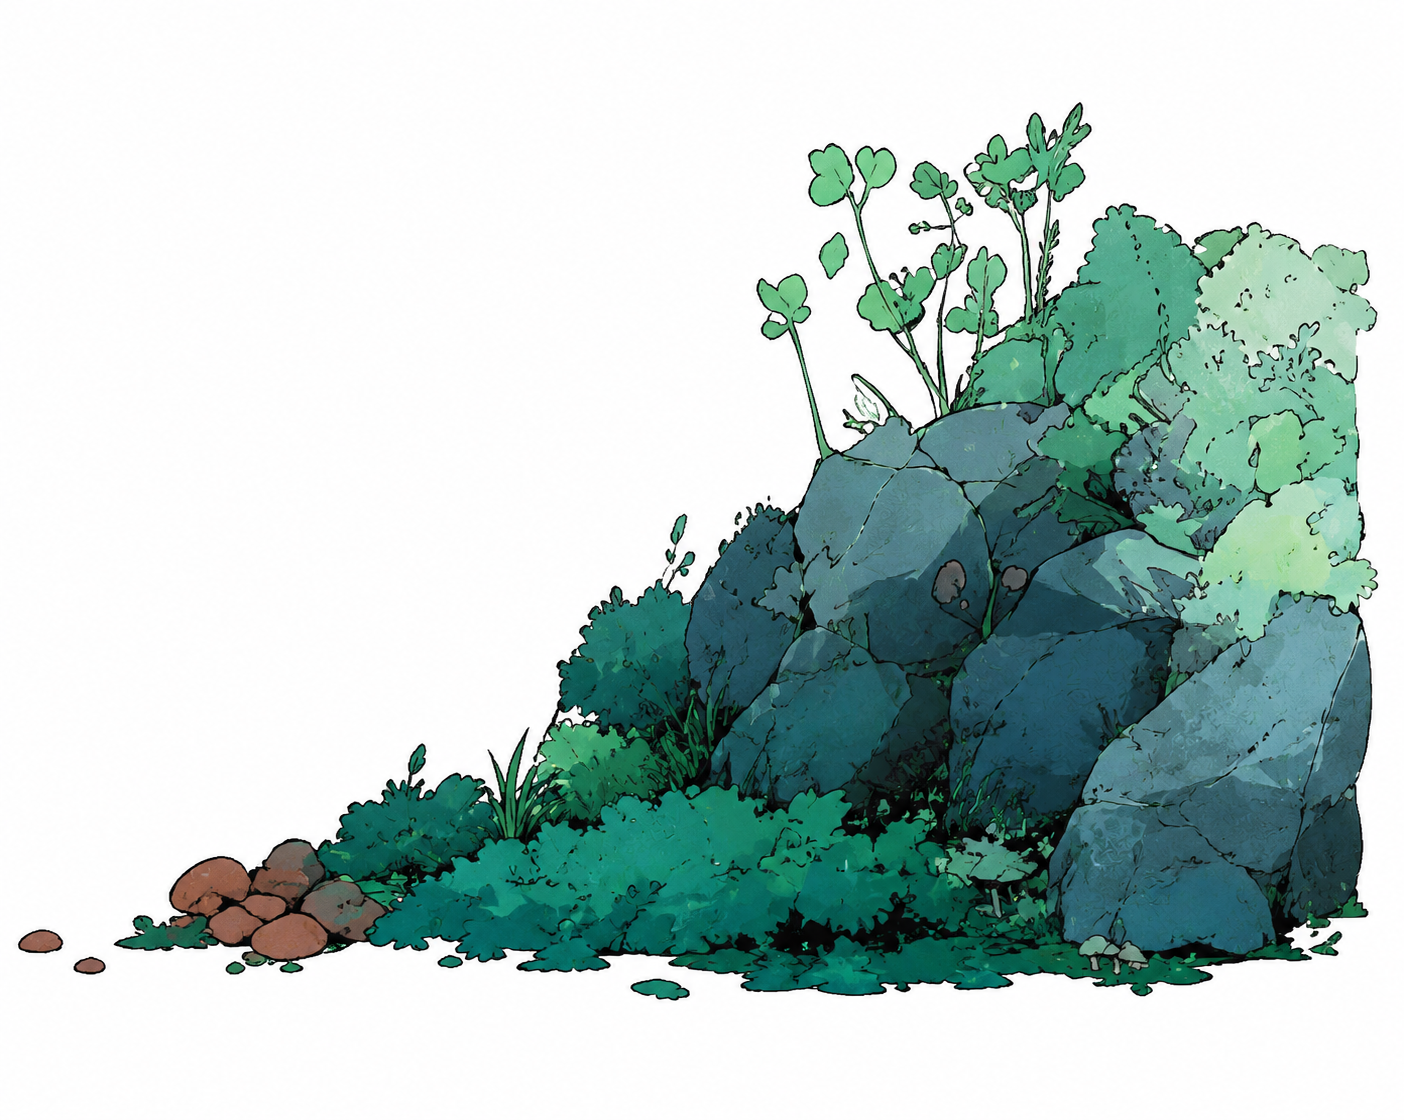
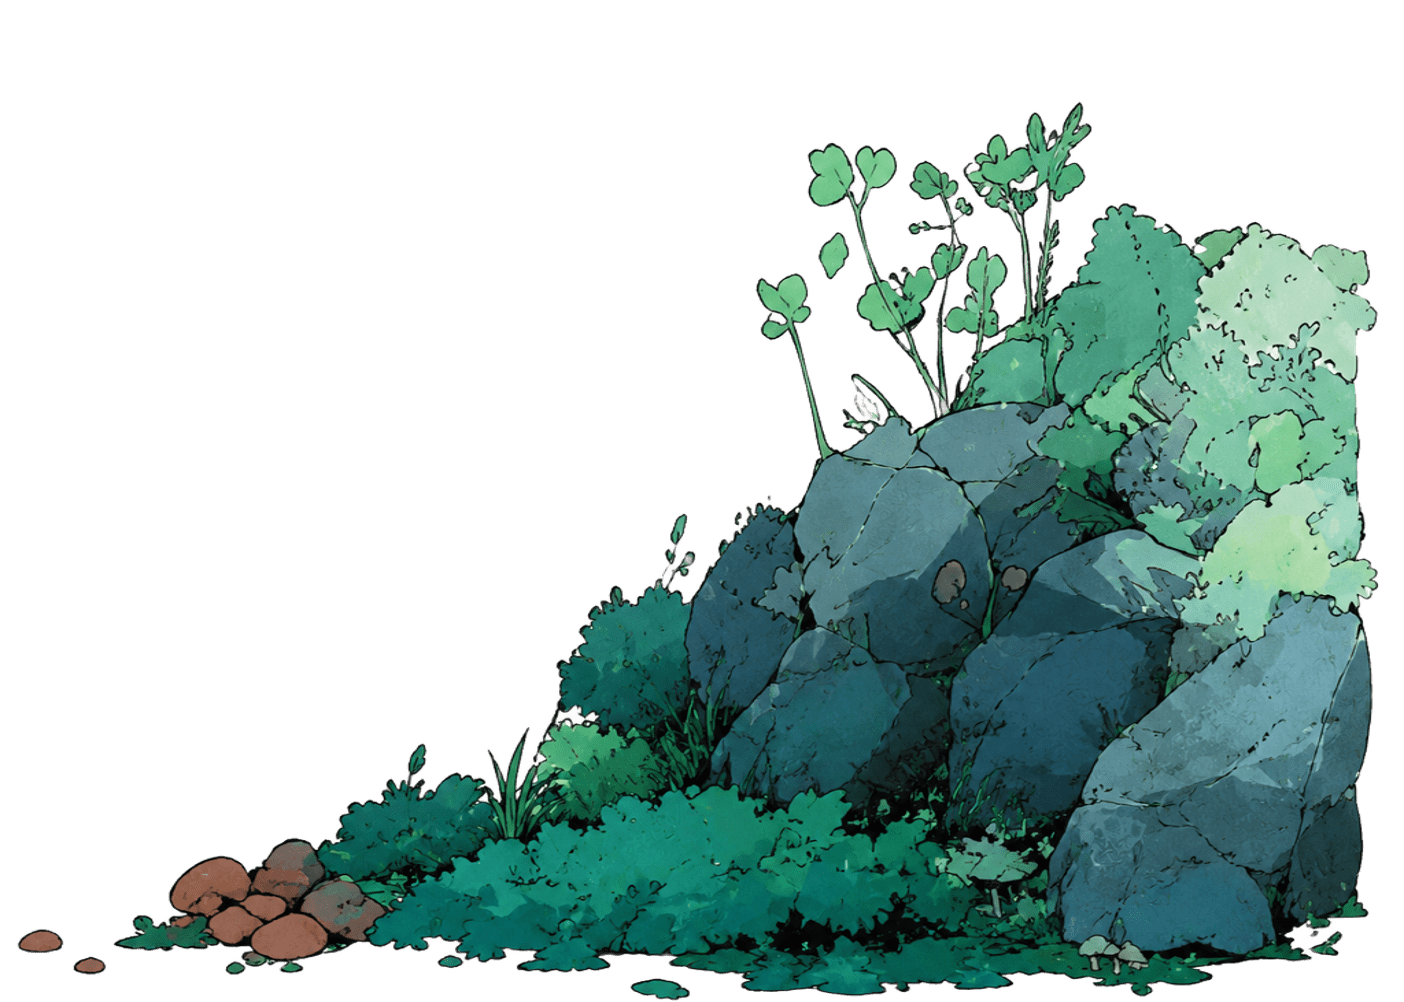
Refactor code structure for improved readability and maintainability

diff --git a/src/shared/components/layout/main-nav.tsx b/src/shared/components/layout/main-nav.tsx
@@ -1,22 +1,27 @@
 import { useEffect, useLayoutEffect, useRef, useState } from 'react'
+import { Home, Briefcase, FolderGit2, Mail, type LucideIcon } from 'lucide-react'
 
 import { cn } from '@/shared/lib/utils'
 import { useContent } from '@/shared/i18n/use-content'
 import { resources } from '@/shared/i18n/resources'
 
-type Key = 'home' | 'about' | 'experience' | 'projects' | 'contact'
+type Key = 'home' | 'experience' | 'projects' | 'contact'
 
-const KEYS: Key[] = ['home', 'about', 'experience', 'projects', 'contact']
+const KEYS: Key[] = ['home', 'experience', 'projects', 'contact']
 const HREF: Record<Key, string> = {
   home: '#top',
-  about: '#about',
   experience: '#experience',
   projects: '#projects',
   contact: '#contact',
 }
+const ICONS: Record<Key, LucideIcon> = {
+  home: Home,
+  experience: Briefcase,
+  projects: FolderGit2,
+  contact: Mail,
+}
 const SECTION_IDS: { id: string; key: Key }[] = [
   { id: 'top', key: 'home' },
-  { id: 'about', key: 'about' },
   { id: 'experience', key: 'experience' },
   { id: 'projects', key: 'projects' },
   { id: 'contact', key: 'contact' },
@@ -69,45 +74,51 @@ export function MainNav() {
   return (
     <nav ref={navRef} className="relative hidden lg:block" aria-label="Primary">
       <ul className="flex items-center gap-7">
-        {KEYS.map((key) => (
-          <li key={key}>
-            <a
-              ref={(el) => {
-                itemRefs.current[key] = el
-              }}
-              href={HREF[key]}
-              onClick={() => setActive(key)}
-              aria-current={active === key ? 'page' : undefined}
-              className="group relative grid place-items-center py-1 text-sm font-medium tracking-wide text-foreground/80 transition-colors hover:text-foreground"
-            >
-              {/* Invisible sizers in both languages reserve the max width so
-                  switching language never shifts the layout. */}
-              <span
-                aria-hidden
-                className="invisible col-start-1 row-start-1 whitespace-nowrap"
+        {KEYS.map((key) => {
+          const Icon = ICONS[key]
+          return (
+            <li key={key}>
+              <a
+                ref={(el) => {
+                  itemRefs.current[key] = el
+                }}
+                href={HREF[key]}
+                onClick={() => setActive(key)}
+                aria-current={active === key ? 'page' : undefined}
+                className="group relative flex items-center gap-1.5 py-1 text-sm font-medium tracking-wide text-foreground/80 transition-colors hover:text-foreground"
               >
-                {resources.zh.nav[key]}
-              </span>
-              <span
-                aria-hidden
-                className="invisible col-start-1 row-start-1 whitespace-nowrap"
-              >
-                {resources.en.nav[key]}
-              </span>
-              <span className="col-start-1 row-start-1 whitespace-nowrap">
-                {content.nav[key]}
-              </span>
+                <Icon className="size-4 shrink-0" />
+                {/* Invisible sizers in both languages reserve the max text width
+                    so switching language never shifts the layout. */}
+                <span className="relative grid">
+                  <span
+                    aria-hidden
+                    className="invisible col-start-1 row-start-1 whitespace-nowrap"
+                  >
+                    {resources.zh.nav[key]}
+                  </span>
+                  <span
+                    aria-hidden
+                    className="invisible col-start-1 row-start-1 whitespace-nowrap"
+                  >
+                    {resources.en.nav[key]}
+                  </span>
+                  <span className="col-start-1 row-start-1 whitespace-nowrap">
+                    {content.nav[key]}
+                  </span>
+                </span>
 
-              {/* Hover line grows from the centre on non-active items. */}
-              <span
-                className={cn(
-                  'pointer-events-none absolute -bottom-1.5 left-1/2 h-px w-0 -translate-x-1/2 bg-foreground transition-[width] duration-300 ease-out',
-                  active !== key && 'group-hover:w-full',
-                )}
-              />
-            </a>
-          </li>
-        ))}
+                {/* Hover line grows from the centre on non-active items. */}
+                <span
+                  className={cn(
+                    'pointer-events-none absolute -bottom-1.5 left-1/2 h-px w-0 -translate-x-1/2 bg-foreground transition-[width] duration-300 ease-out',
+                    active !== key && 'group-hover:w-full',
+                  )}
+                />
+              </a>
+            </li>
+          )
+        })}
       </ul>
 
       {/* The active underline slides/jumps between items. */}

diff --git a/src/index.css b/src/index.css
@@ -229,4 +229,32 @@ html.vt-to-light::view-transition-new(root) {
   z-index: 1;
 }
 
+/* ---- Custom scrollbar (image thumb) ---- */
+::-webkit-scrollbar {
+  width: 14px;
+  height: 14px;
+}
+::-webkit-scrollbar-track {
+  background: transparent;
+}
+::-webkit-scrollbar-thumb {
+  background-image: url('/scrollbar-thumb.png');
+  background-size: cover;
+  background-position: center;
+  background-repeat: no-repeat;
+  border-radius: 9999px;
+  border: 3px solid transparent;
+  background-clip: padding-box;
+}
+::-webkit-scrollbar-thumb:hover {
+  border-width: 2px;
+}
+/* Firefox can't use an image thumb — fall back to a themed colour. */
+@supports (scrollbar-color: auto) {
+  html {
+    scrollbar-color: oklch(0.55 0.09 160) transparent;
+    scrollbar-width: thin;
+  }
+}
+
 

diff --git a/src/App.tsx b/src/App.tsx
@@ -1,8 +1,8 @@
-import { SiteHeader } from '@/shared/components/layout/site-header'
-import { HomePage } from '@/features/home/home-page'
-import { TornFilter } from '@/shared/components/torn-filter'
-import { ResponsiveImage } from '@/shared/components/responsive-image'
-import { siteConfig } from '@/shared/config/site'
+import { SiteHeader } from "@/shared/components/layout/site-header";
+import { HomePage } from "@/features/home/home-page";
+import { TornFilter } from "@/shared/components/torn-filter";
+import { ResponsiveImage } from "@/shared/components/responsive-image";
+import { siteConfig } from "@/shared/config/site";
 
 function App() {
   return (
@@ -10,13 +10,15 @@ function App() {
       <TornFilter />
 
       {/* Fixed forest backdrop — shows on the left/right margins of the sheet.
-          A gradient sits underneath as an instant placeholder / fallback. */}
+          A gradient sits underneath as an instant placeholder / fallback.
+          The image is shifted 150px to the left so the trunk fills the gap
+          behind the header's right-hand actions. */}
       <div
         aria-hidden
-        className="fixed inset-0 -z-10"
+        className="fixed inset-0 -z-10 overflow-hidden"
         style={{
           background:
-            'linear-gradient(180deg, oklch(0.8 0.07 162), oklch(0.72 0.08 168)), radial-gradient(120% 90% at 70% 20%, oklch(0.74 0.09 168), oklch(0.62 0.08 172))',
+            "linear-gradient(180deg, oklch(0.8 0.07 162), oklch(0.72 0.08 168)), radial-gradient(120% 90% at 70% 20%, oklch(0.74 0.09 168), oklch(0.62 0.08 172))",
         }}
       >
         <ResponsiveImage
@@ -26,7 +28,7 @@ function App() {
           sizes={siteConfig.images.hero.sizes}
           width={siteConfig.images.hero.width}
           height={siteConfig.images.hero.height}
-          className="size-full object-cover"
+          className="absolute inset-y-0 left-[-500px] h-full w-[calc(100%+500px)] max-w-none object-cover"
         />
       </div>
       {/* Dims the forest in dark mode. */}
@@ -43,7 +45,7 @@ function App() {
         </main>
       </div>
     </div>
-  )
+  );
 }
 
-export default App
+export default App;

diff --git a/src/shared/components/layout/site-header.tsx b/src/shared/components/layout/site-header.tsx
@@ -1,4 +1,4 @@
-import { useEffect, useState } from 'react'
+import { useEffect, useRef, useState } from 'react'
 import { AnimatePresence, motion } from 'motion/react'
 import { Download, Menu, X } from 'lucide-react'
 
@@ -15,11 +15,20 @@ import { siteConfig } from '@/shared/config/site'
 export function SiteHeader() {
   const content = useContent()
   const [scrolled, setScrolled] = useState(false)
+  const [hidden, setHidden] = useState(false)
   const [menuOpen, setMenuOpen] = useState(false)
   const [searchOpen, setSearchOpen] = useState(false)
+  const lastY = useRef(0)
 
   useEffect(() => {
-    const onScroll = () => setScrolled(window.scrollY > 8)
+    const onScroll = () => {
+      const y = window.scrollY
+      setScrolled(y > 8)
+      // Slide the bar up when scrolling down, reveal it when scrolling up.
+      if (y > lastY.current && y > 96) setHidden(true)
+      else if (y < lastY.current) setHidden(false)
+      lastY.current = y
+    }
     onScroll()
     window.addEventListener('scroll', onScroll, { passive: true })
     return () => window.removeEventListener('scroll', onScroll)
@@ -27,7 +36,6 @@ export function SiteHeader() {
 
   const navItems = [
     { key: 'home', label: content.nav.home, href: '#top' },
-    { key: 'about', label: content.nav.about, href: '#about' },
     { key: 'experience', label: content.nav.experience, href: '#experience' },
     { key: 'projects', label: content.nav.projects, href: '#projects' },
     { key: 'contact', label: content.nav.contact, href: '#contact' },
@@ -37,10 +45,8 @@ export function SiteHeader() {
     <header
       data-scrolled={scrolled ? 'true' : 'false'}
       className={cn(
-        'group/header sticky top-0 z-40 transition-colors duration-300',
-        scrolled
-          ? 'border-b border-border/50 bg-background/70 shadow-[0_8px_30px_-18px_rgba(20,40,30,0.5)] backdrop-blur-md'
-          : 'border-b border-transparent',
+        'group/header sticky top-0 z-40 transition-transform duration-300 ease-out',
+        hidden && !menuOpen ? '-translate-y-full' : 'translate-y-0',
       )}
     >
       <div className="mx-auto flex h-20 max-w-6xl items-center justify-between px-6 md:px-10">